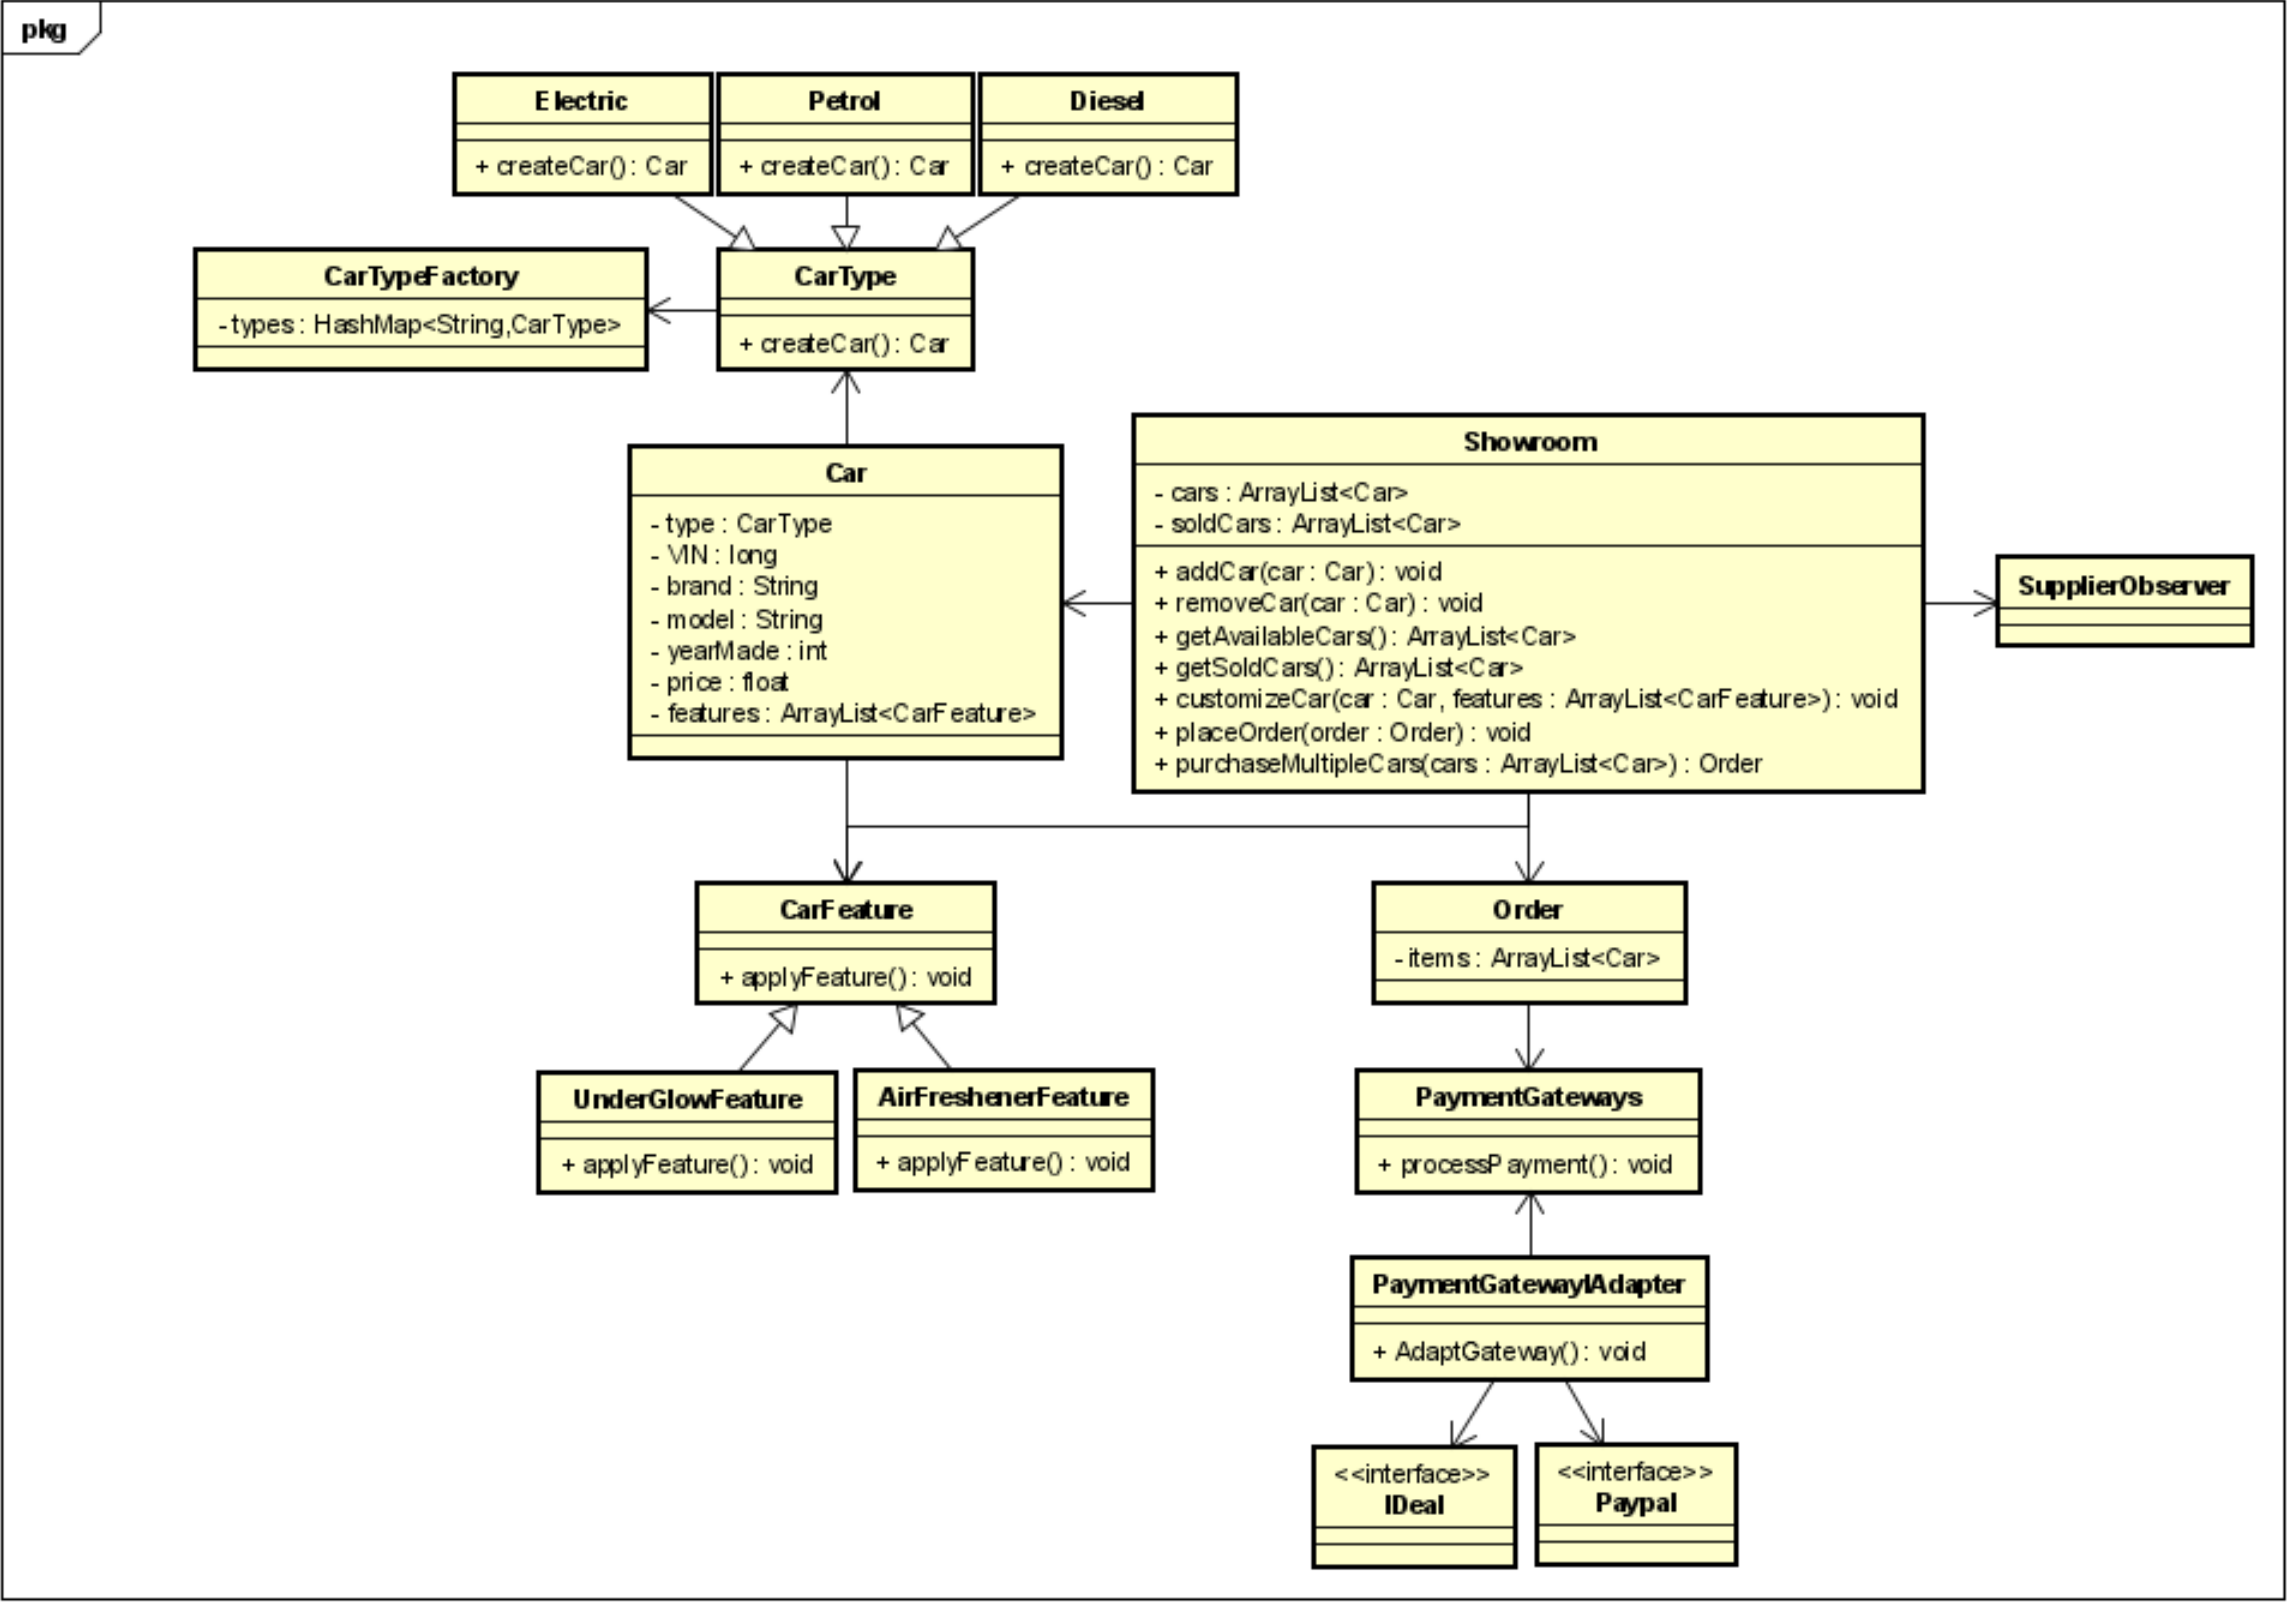
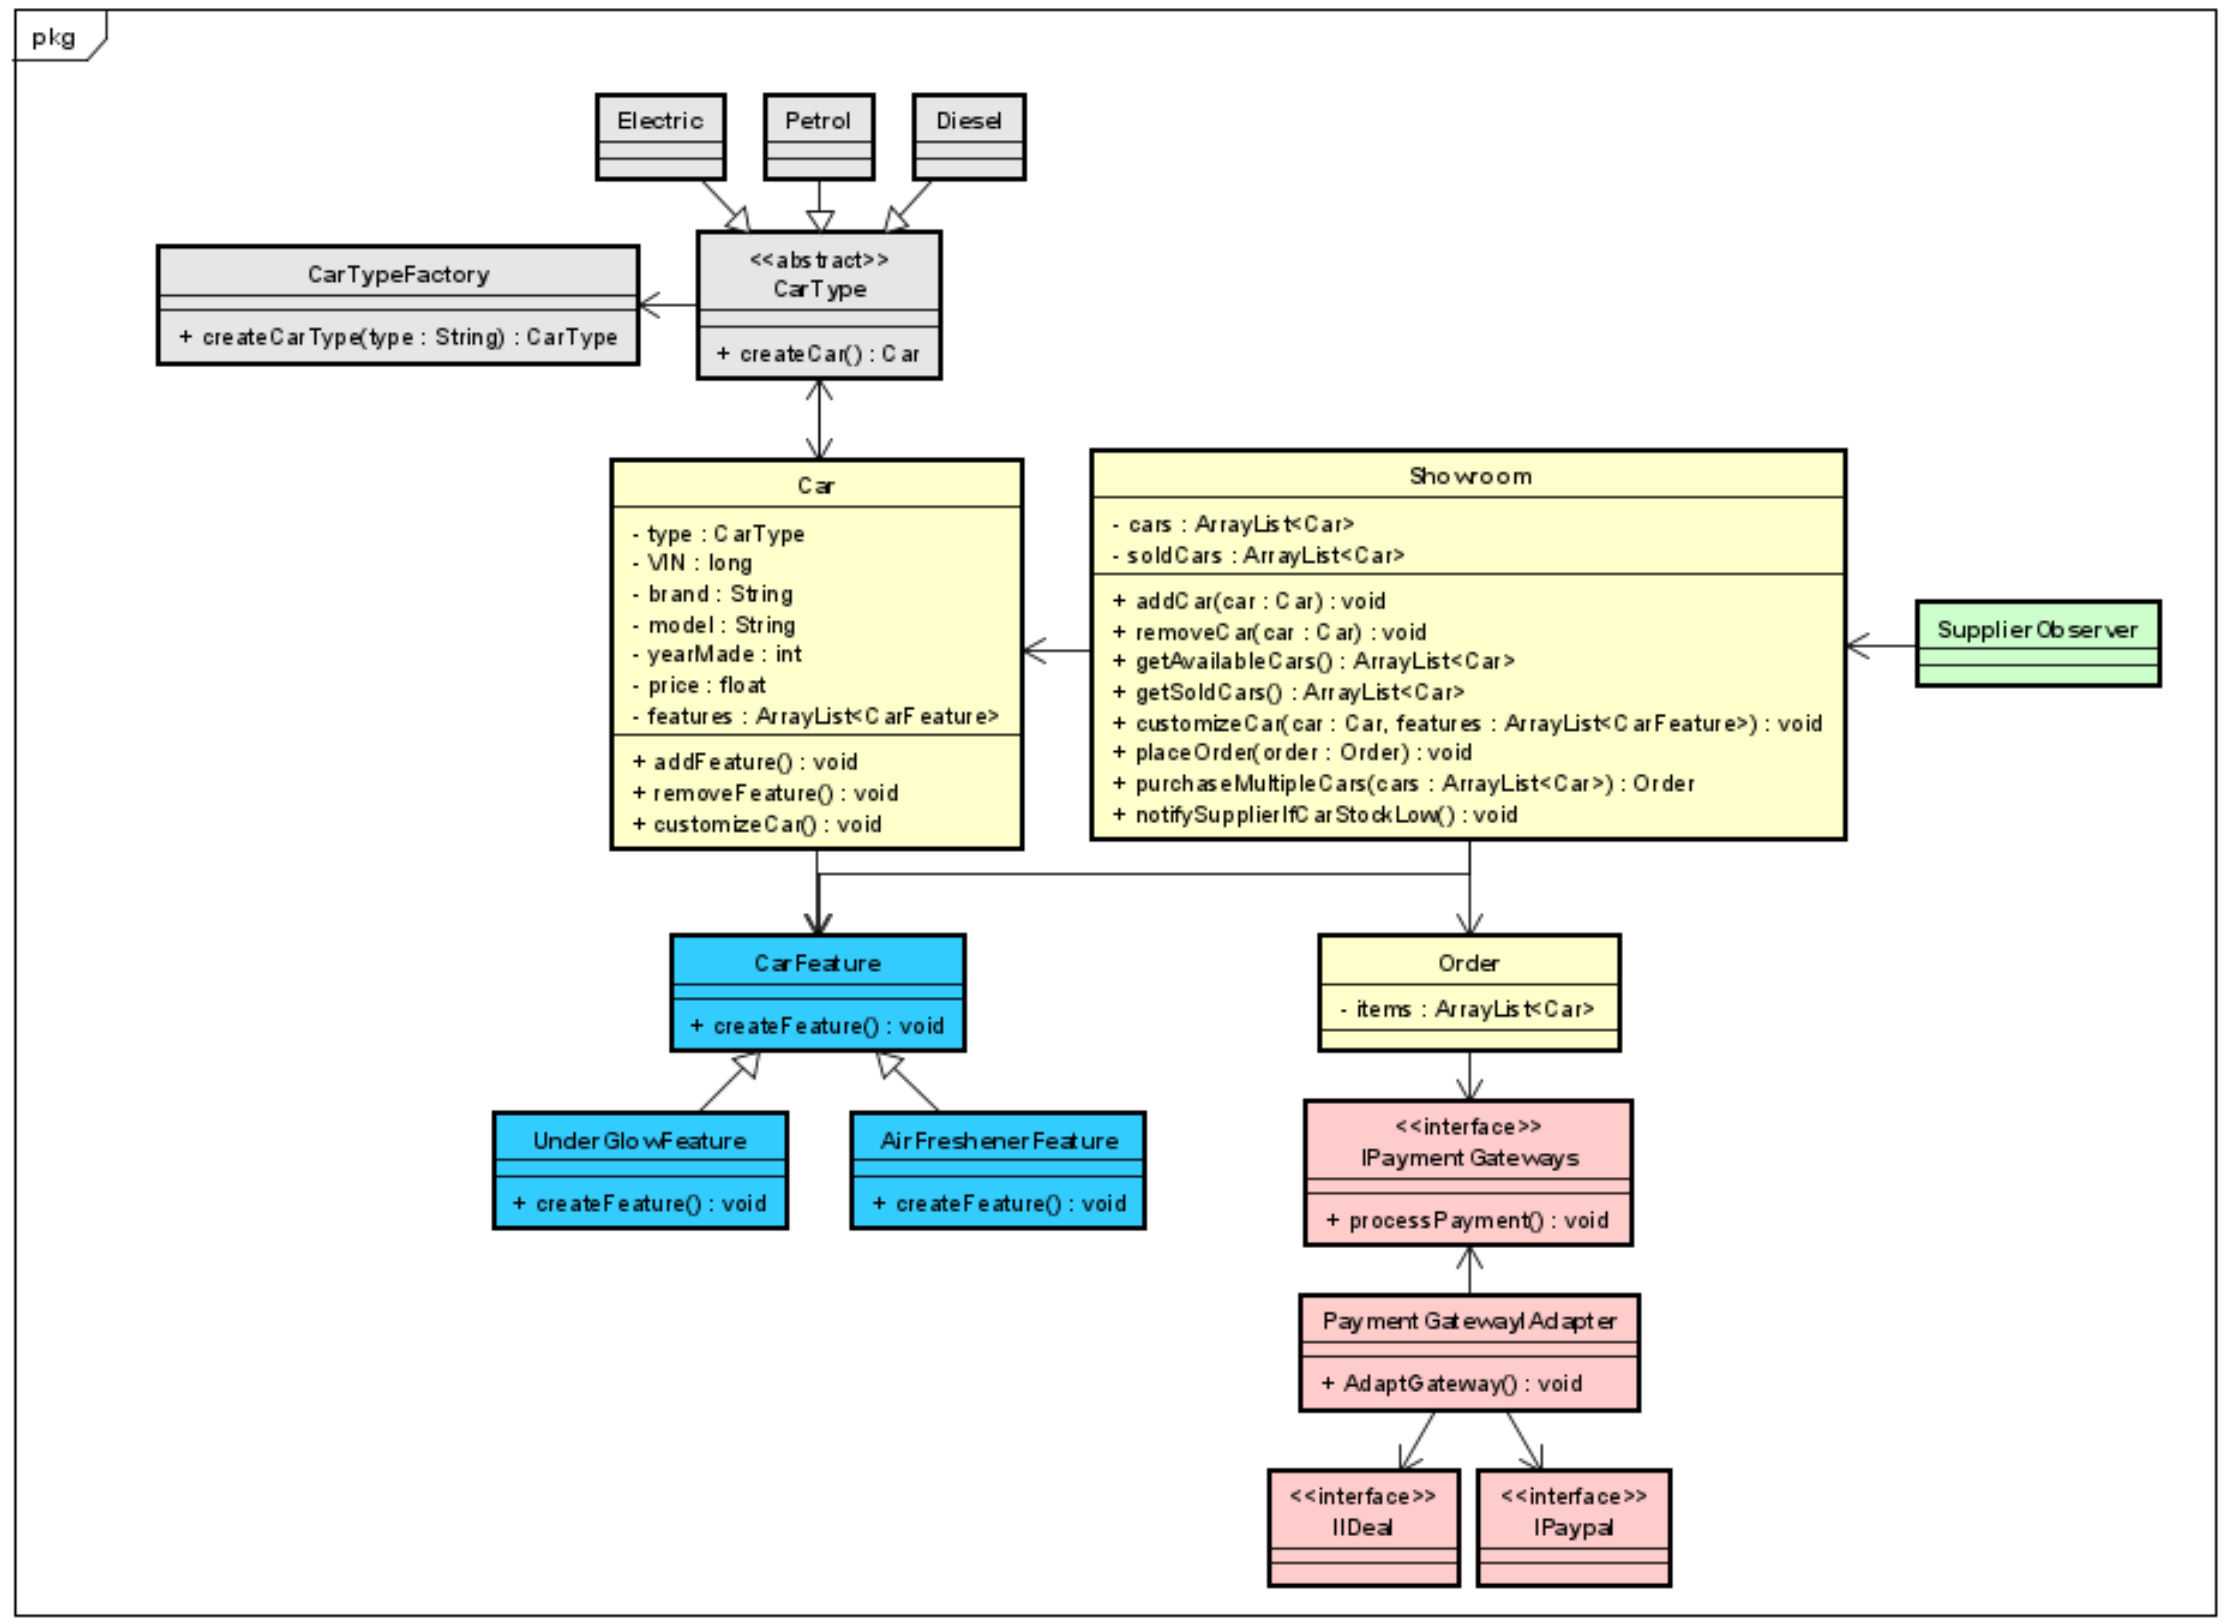
Updates StartDoc and Class Diagram

Changed region(s): [[0.0, 0.0, 1.0, 1.0]]

diff --git a/README.md b/README.md
@@ -35,7 +35,7 @@ _______________________________________________________
 The app offers different types of cars, each with its own engine types. Implementation of the Factory Method pattern for
 generating car type objects is based on the customer's selective preference.
 
-In Pseudo-Code: Create an abstract class/interface `CarType` representing the type of engine the car runs on. Then,
+In Pseudo-Code: Create an abstract class `CarType` representing the type of engine the car runs on. Then,
 create subclasses
 like `PetrolCarType`, `DieselCarType`, etc., each implementing the `CarType` abstract class/interface and providing
 their own implementations for generating car types. The `CarTypeFactory` Class acts as a factory method, responsible for
@@ -47,7 +47,7 @@ Customers may have different preferences for their car, such as adding an air fr
 under-glow. To accommodate these preferences, the Decorator pattern can be implemented to dynamically modify the
 features of the car based on customer selections.
 
-In Pseudo-Code: Create a `CarFeature` interface representing a feature of the car. Then, create feature implementations
+In Pseudo-Code: Create a `CarFeature` abstract class representing a feature of the car. Then, create feature implementations
 like `AirFreshener`, `RearCamera`, etc. each adding specific modifications to the base car features. When a customer
 selects a
 feature, decorators can be dynamically applied based on their preferences.
@@ -68,9 +68,9 @@ The Showroom also takes care of a stock management system for their cars and nee
 suppliers, whenever there are changes in the stock levels of certain car models. We can implement the Observer pattern
 to achieve this.
 
-In Pseudo-Code: Create a `CarStockSubject` interface that maintains the stock levels of car models. Then, create classes
+In Pseudo-Code: Create a `CarStockObserver` interface that maintains the stock levels of car models. Then, create classes
 like `CarModelStockManager` that implement this interface and manages the stock levels of different car models. The
-`CarStockSubject` also maintains a list of observers such as suppliers and notifies them whenever there are changes in
+`CarStockObserver` also maintains a list of observers such as suppliers and notifies them whenever there are changes in
 the stock levels.
 
 _______________________________________________________
@@ -79,10 +79,10 @@ _______________________________________________________
 
 | Serial Number | Requirement                                                       | Must have | Should have | Could have | Won't have |
 |:-------------:|-------------------------------------------------------------------|:---------:|:-----------:|:----------:|:----------:|
-|       1       | Adding a 4th pattern in case we need to fall back on it           |          |             |       ✅     |            |  
-|       2       | Ability to add and remove new cars to and from the showroom       |     ✅     |             |            |            |
-|       3       | Ability to customise your car prior to placing an order           |           |      ✅      |            |            |
-|       4       | Deals and promotions for cars and addons at the payment interface |           |      ✅      |            |            |
+|       1       | Ability to add and remove new cars to and from the showroom       |     ✅     |             |            |            |
+|       2       | Ability to customise your car prior to placing an order           |           |      ✅      |            |            |
+|       3       | Deals and promotions for cars and addons at the payment interface |           |      ✅      |            |            |
+|       4       | Adding a 4th pattern in case we need to fall back on it           |           |             |     ✅      |            |  
 |       5       | Ability to see what inventory was sold                            |           |             |     ✅      |            |
 |       6       | Ability to see the summary of the ordered items                   |           |             |     ✅      |            |
 |       7       | Ability to register and create users                              |           |             |            |     ✅      |
